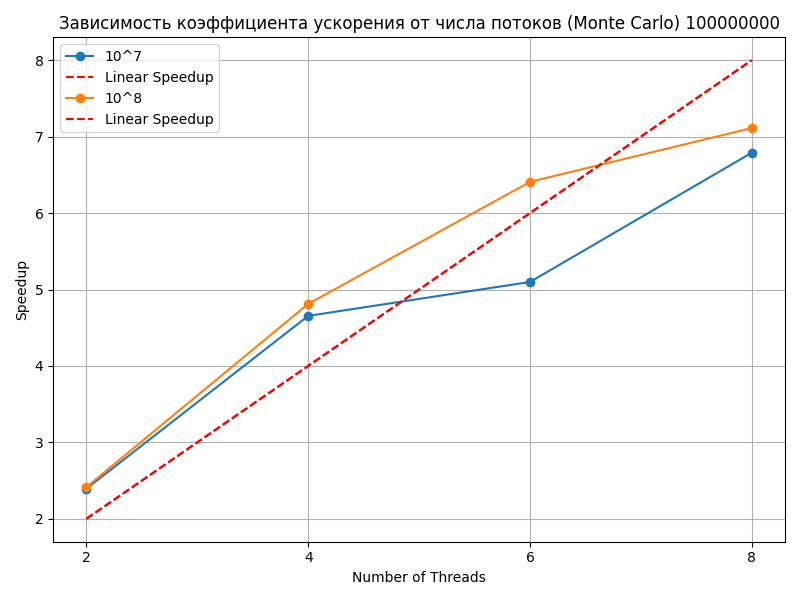
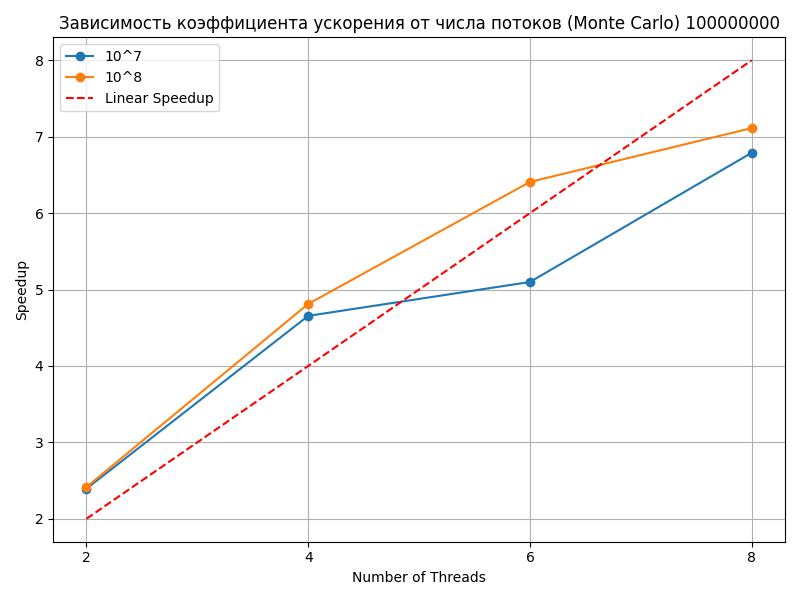
231gsfggd

Changed region(s): [[0.0938, 0.12, 0.2812, 0.21]]

diff --git a/pct-spring-lab3/graph.py b/pct-spring-lab3/graph.py
@@ -9,7 +9,7 @@ def read_speedup_data(filename):
         speedup = [float(row[1]) for row in data]
     return threads, speedup
 
-def plot_speedup(threads, speedup, title, label):
+def plot_speedup(threads, speedup, title, label, draw_line = 1):
     plt.plot(threads, speedup, marker='o', linestyle='-', label=label)
     plt.xlabel('Number of Threads')
     plt.ylabel('Speedup')
@@ -19,9 +19,10 @@ def plot_speedup(threads, speedup, title, label):
     plt.tight_layout()
 
     # Линия линейного ускорения
-    max_threads = max(threads)
-    linear_speedup = [thread for thread in threads]
-    plt.plot(threads, linear_speedup, linestyle='--', color='red', label='Linear Speedup')
+    if(draw_line):
+        max_threads = max(threads)
+        linear_speedup = [thread for thread in threads]
+        plt.plot(threads, linear_speedup, linestyle='--', color='red', label='Linear Speedup')
     
     plt.legend()
 
@@ -37,5 +38,6 @@ for i in range(2):
     filename = f'prog-monte-carlo-{i}.dat'
     threads_mc, speedup_mc = read_speedup_data(filename)
     label = f'10^{7 if i == 0 else 8}'
-    plot_speedup(threads_mc, speedup_mc, f'Зависимость коэффициента ускорения от числа потоков (Monte Carlo) {10**7 if i == 0 else 10**8}', label)
+    plot_speedup(threads_mc, speedup_mc, f'Зависимость коэффициента ускорения от числа потоков (Monte Carlo) {10**7 if i == 0 else 10**8}', label, i)
+#plt.legend()
 plt.savefig('speedup_monte_carlo.png')
